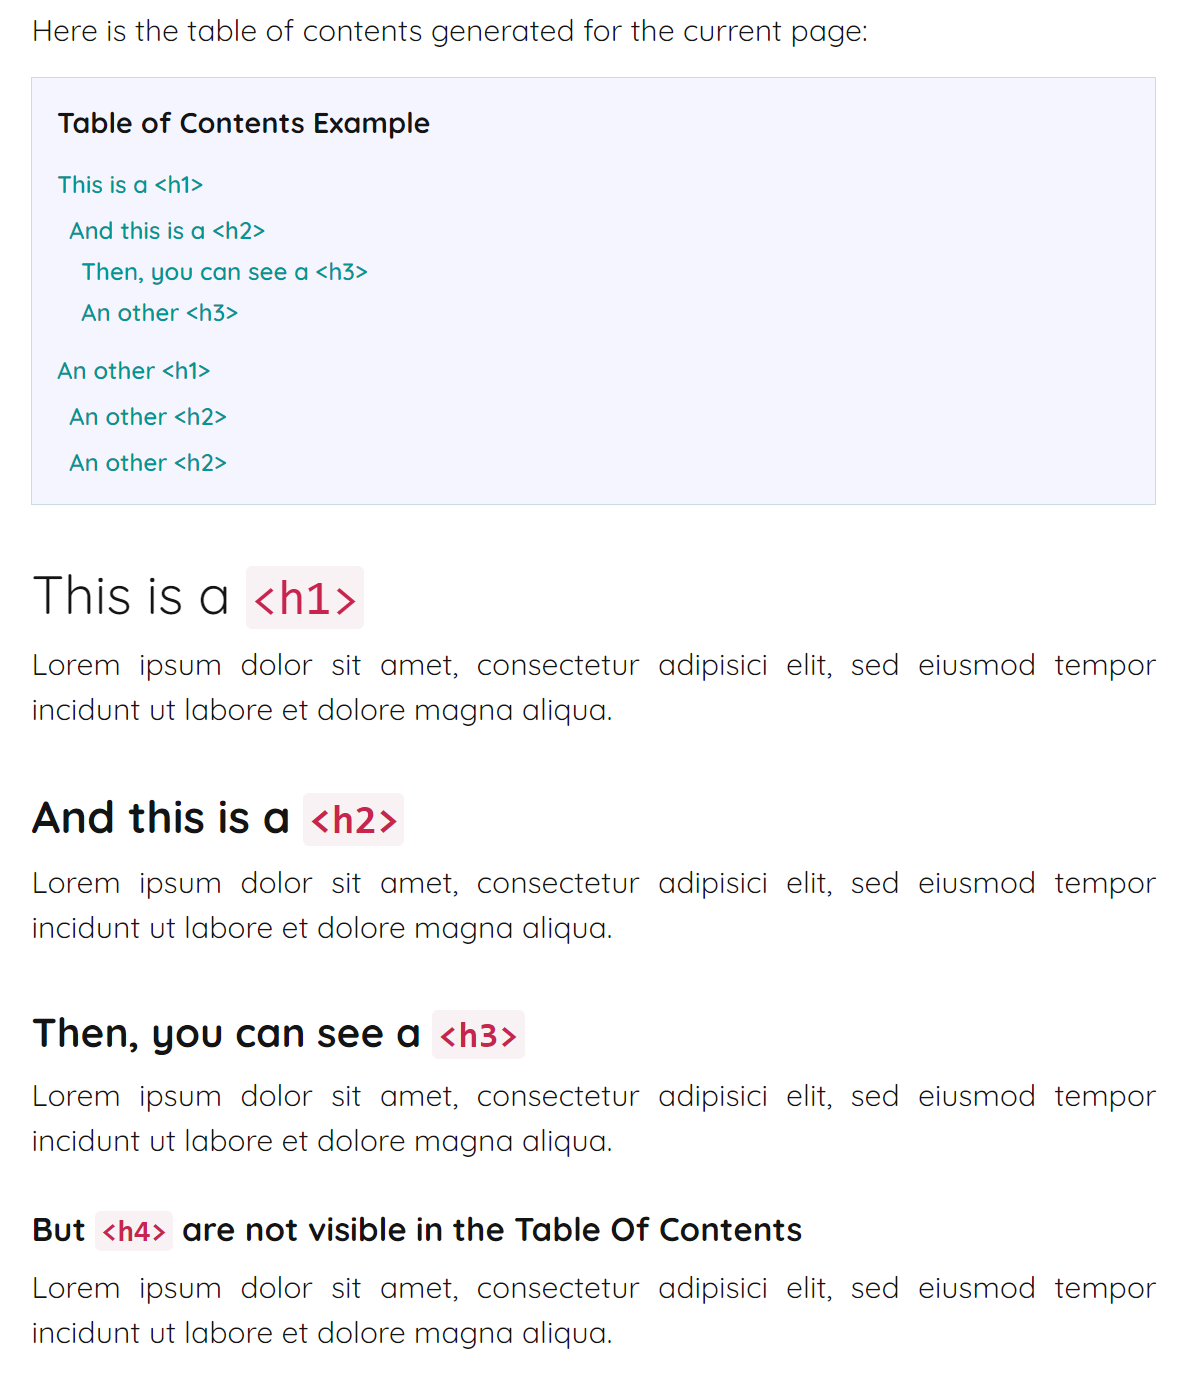
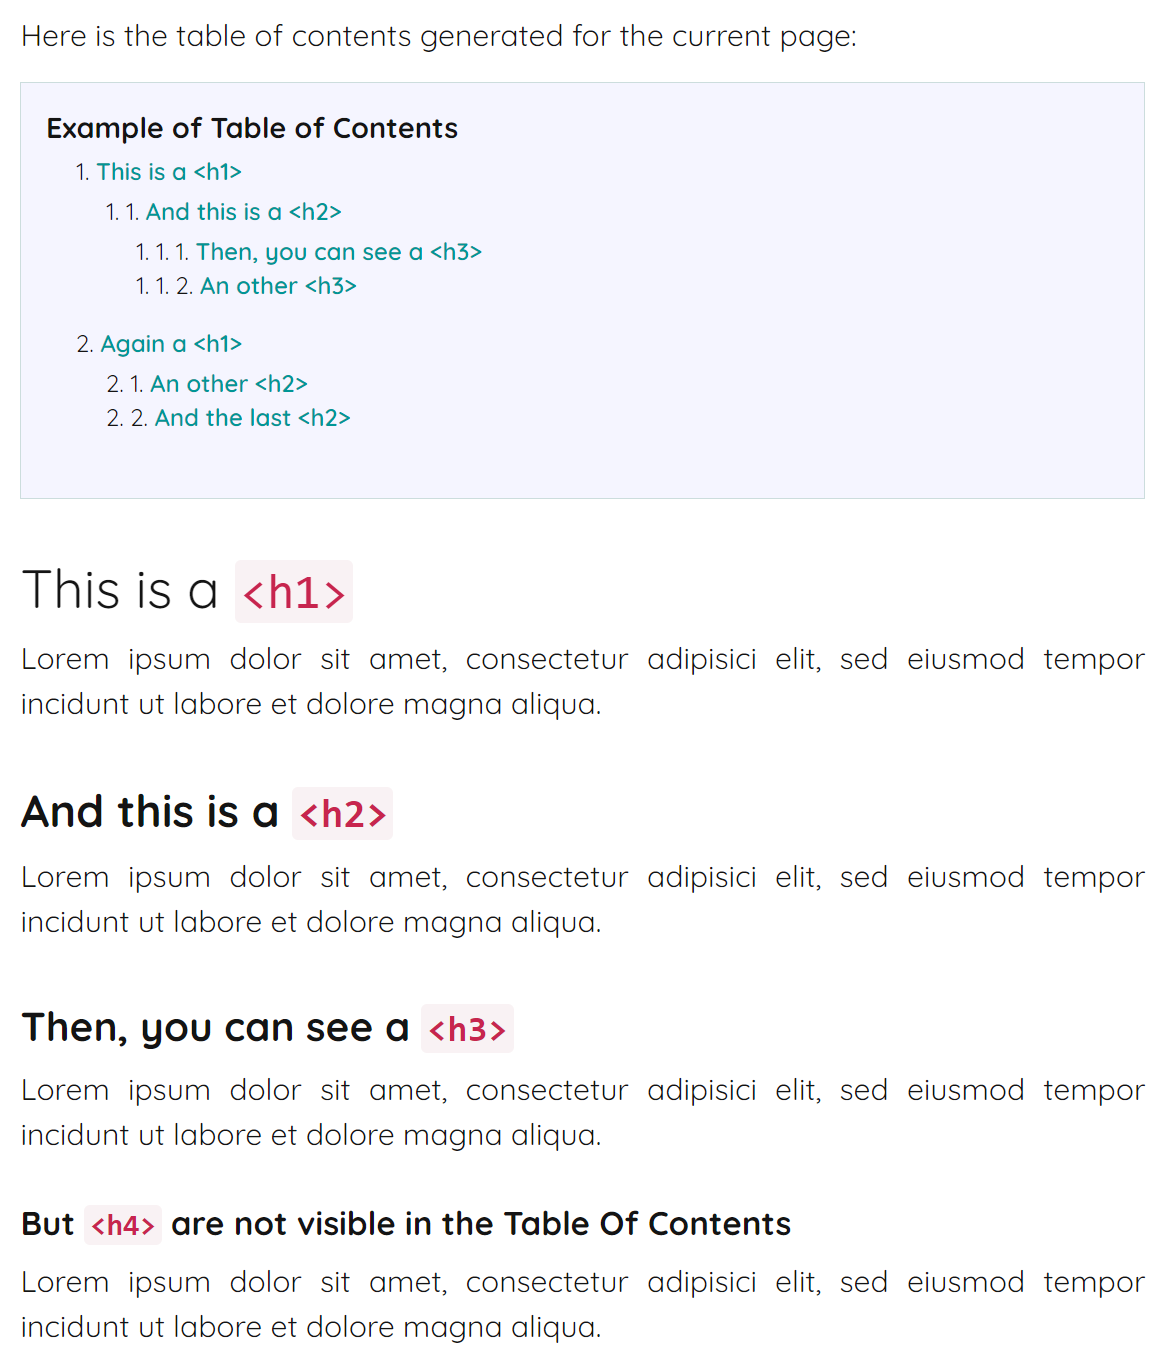
Update the example by adding the style attribute

diff --git a/README.md b/README.md
@@ -90,7 +90,7 @@ toc_style: numbers
 This configuration will be applied to the entire site, but it's also possible to override the `toc_min_level`, `toc_max_level`, `toc_heading` and `toc_style` for a specific element using the `min-level`, `max-level`, `heading` and `style` attributes, respectively.
 
 ``` html
-<toc min-level="2" max-level="3" heading="Table of Contents" />
+<toc min-level="2" max-level="3" heading="Table of Contents" style="numbers" />
 ```
 
 
@@ -106,7 +106,7 @@ Description:
 
 Here is the Table Of Contents generated for the current page:
 
-<toc max-level="3" heading="Table of Contents Example" />
+<toc max-level="3" heading="Example of Table of Contents" style="numbers" />
 
 # This is a `<h1>`
 Lorem ipsum dolor sit amet, consectetur adipisici elit, sed eiusmod tempor incidunt ut labore et dolore magna aliqua. 
@@ -123,21 +123,21 @@ Lorem ipsum dolor sit amet, consectetur adipisici elit, sed eiusmod tempor incid
 ### An other `<h3>`
 Lorem ipsum dolor sit amet, consectetur adipisici elit, sed eiusmod tempor incidunt ut labore et dolore magna aliqua. 
 
-# An other `<h1>`
+# Again a `<h1>`
 Lorem ipsum dolor sit amet, consectetur adipisici elit, sed eiusmod tempor incidunt ut labore et dolore magna aliqua. 
 
 ## An other `<h2>`
 Lorem ipsum dolor sit amet, consectetur adipisici elit, sed eiusmod tempor incidunt ut labore et dolore magna aliqua. 
 
-## An other `<h2>`
-Lorem ipsum dolor sit amet, consectetur adipisici elit, sed eiusmod tempor incidunt ut labore et dolore magna aliqua. 
+## And the last `<h2>`
+Lorem ipsum dolor sit amet, consectetur adipisici elit, sed eiusmod tempor incidunt ut labore et dolore magna aliqua.
 ```
 
 
 ## Screenshot
 
 <p align="center">
-  <img src="Screenshot.png" title="Screenshot">
+  <img src="Screenshot.png" title="Screenshot" width="600">
 </p>
 
 
